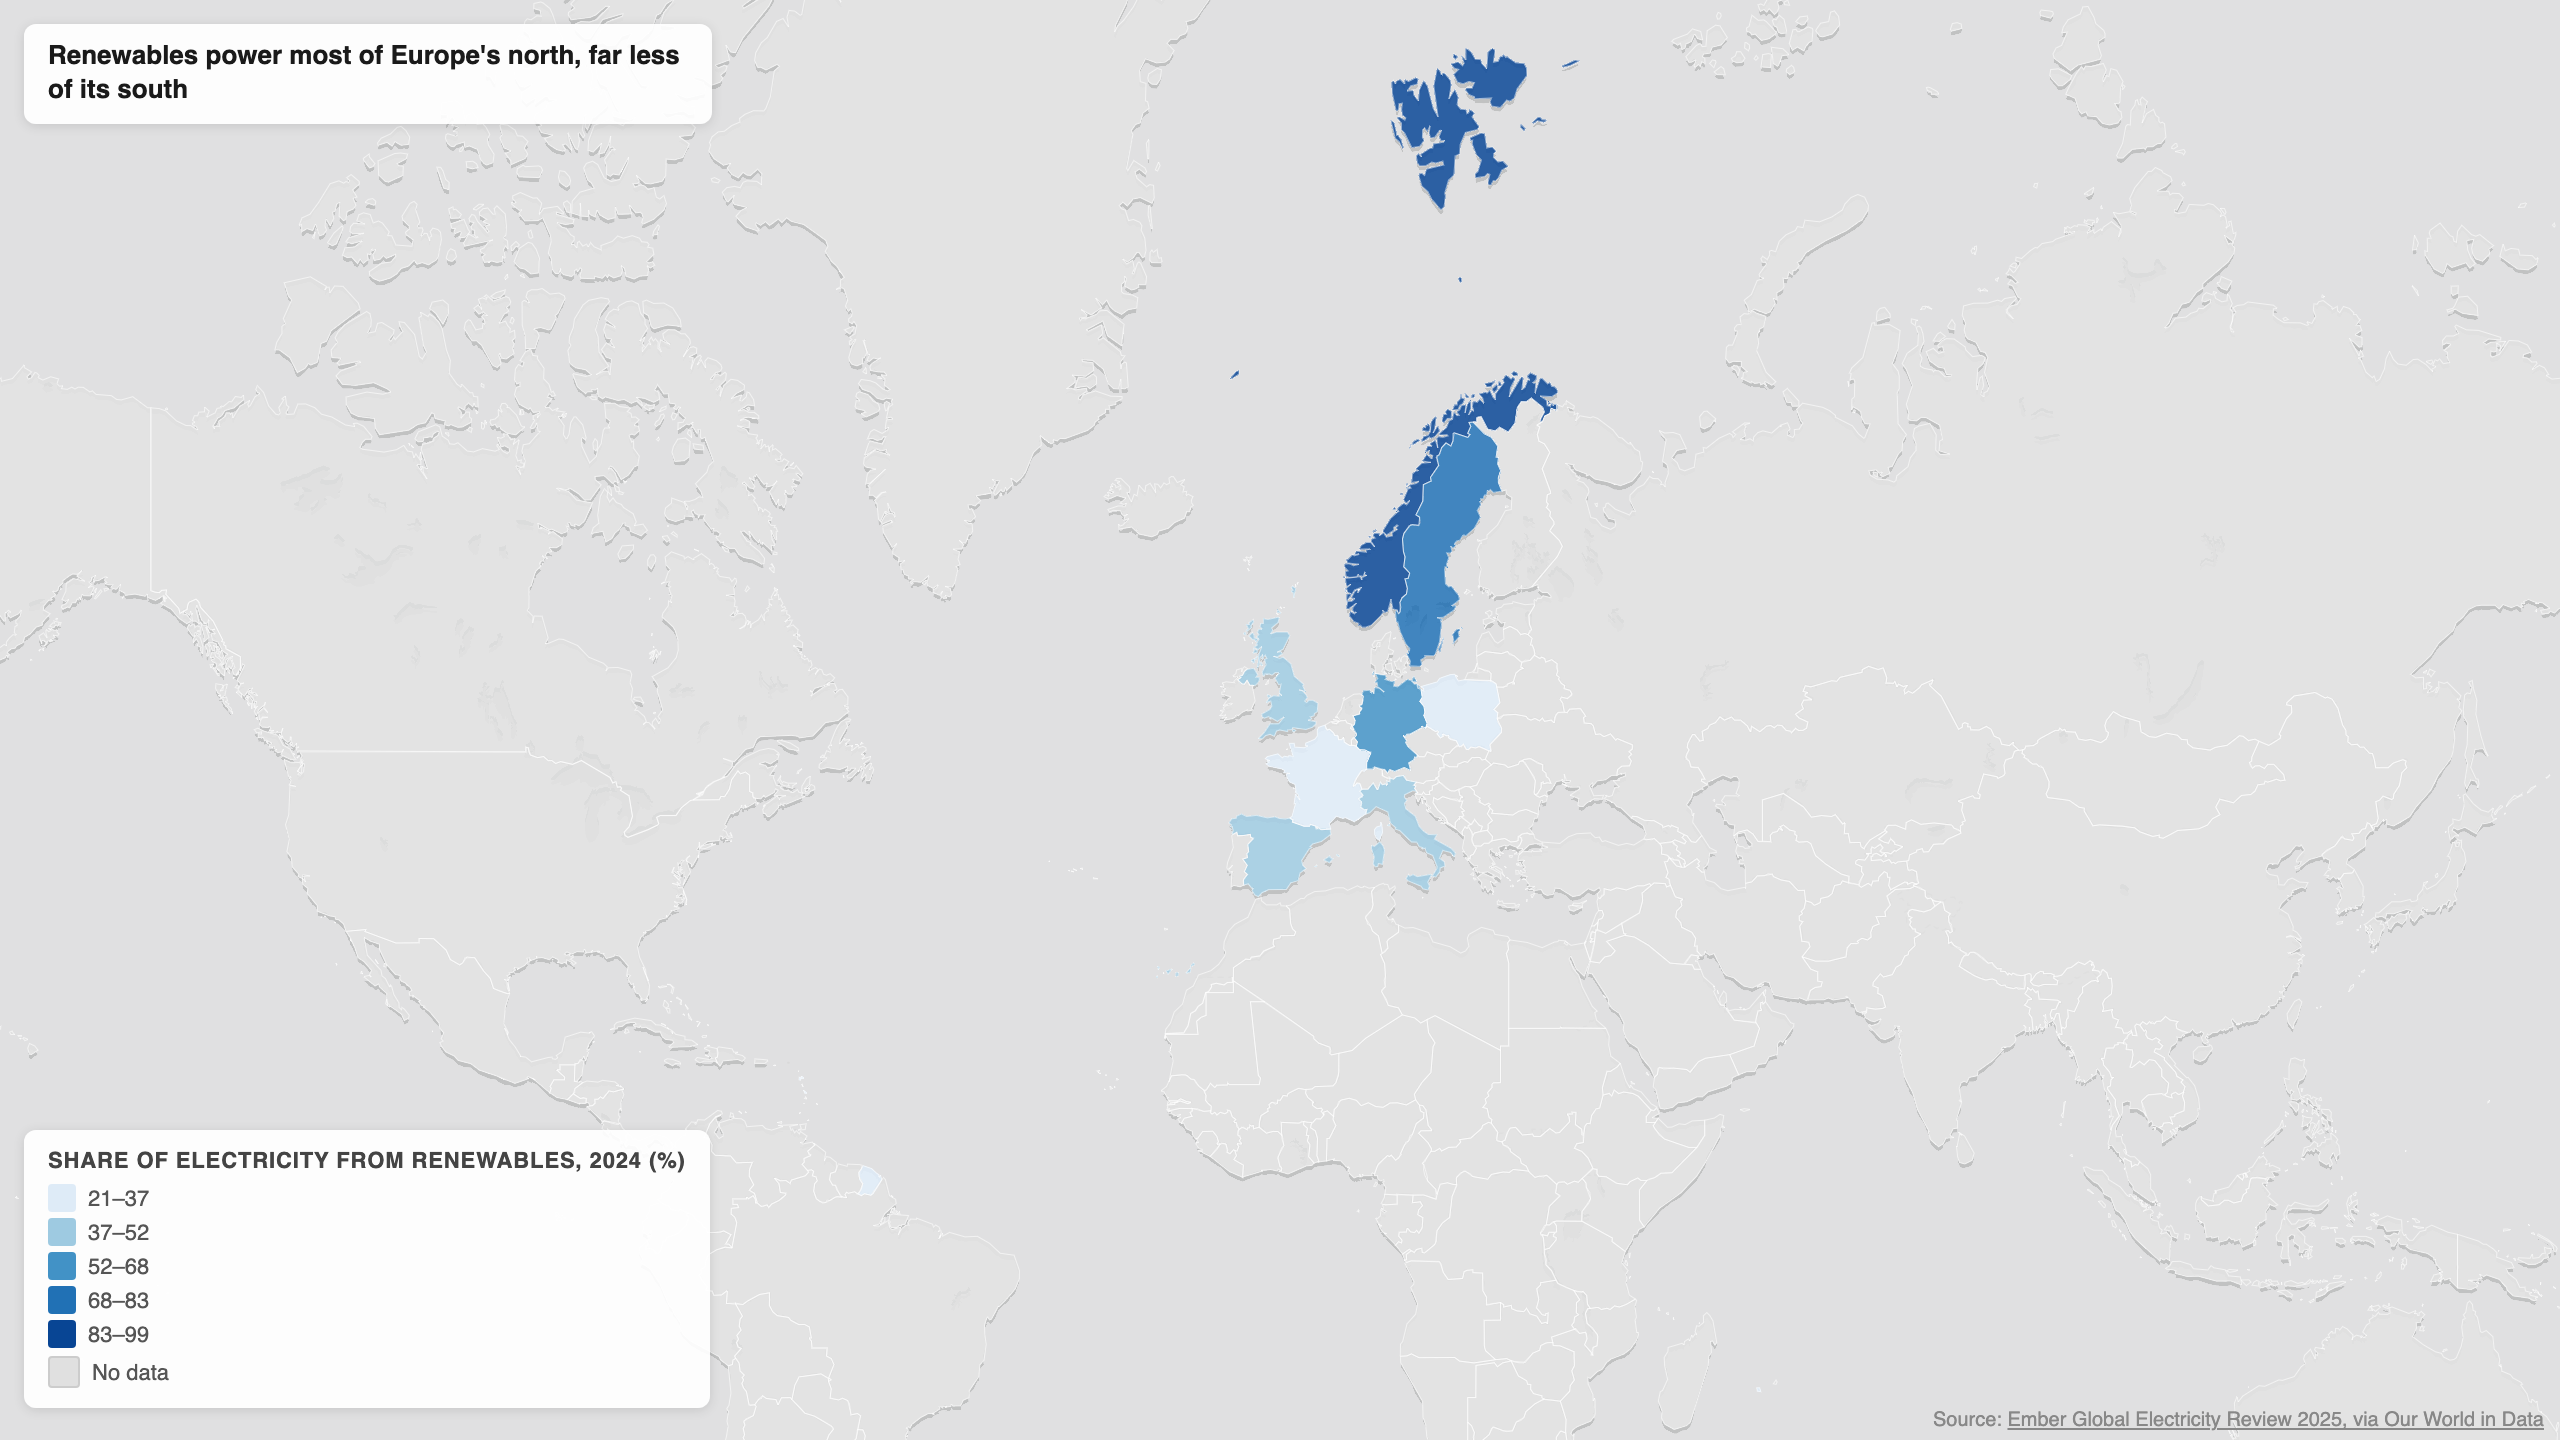
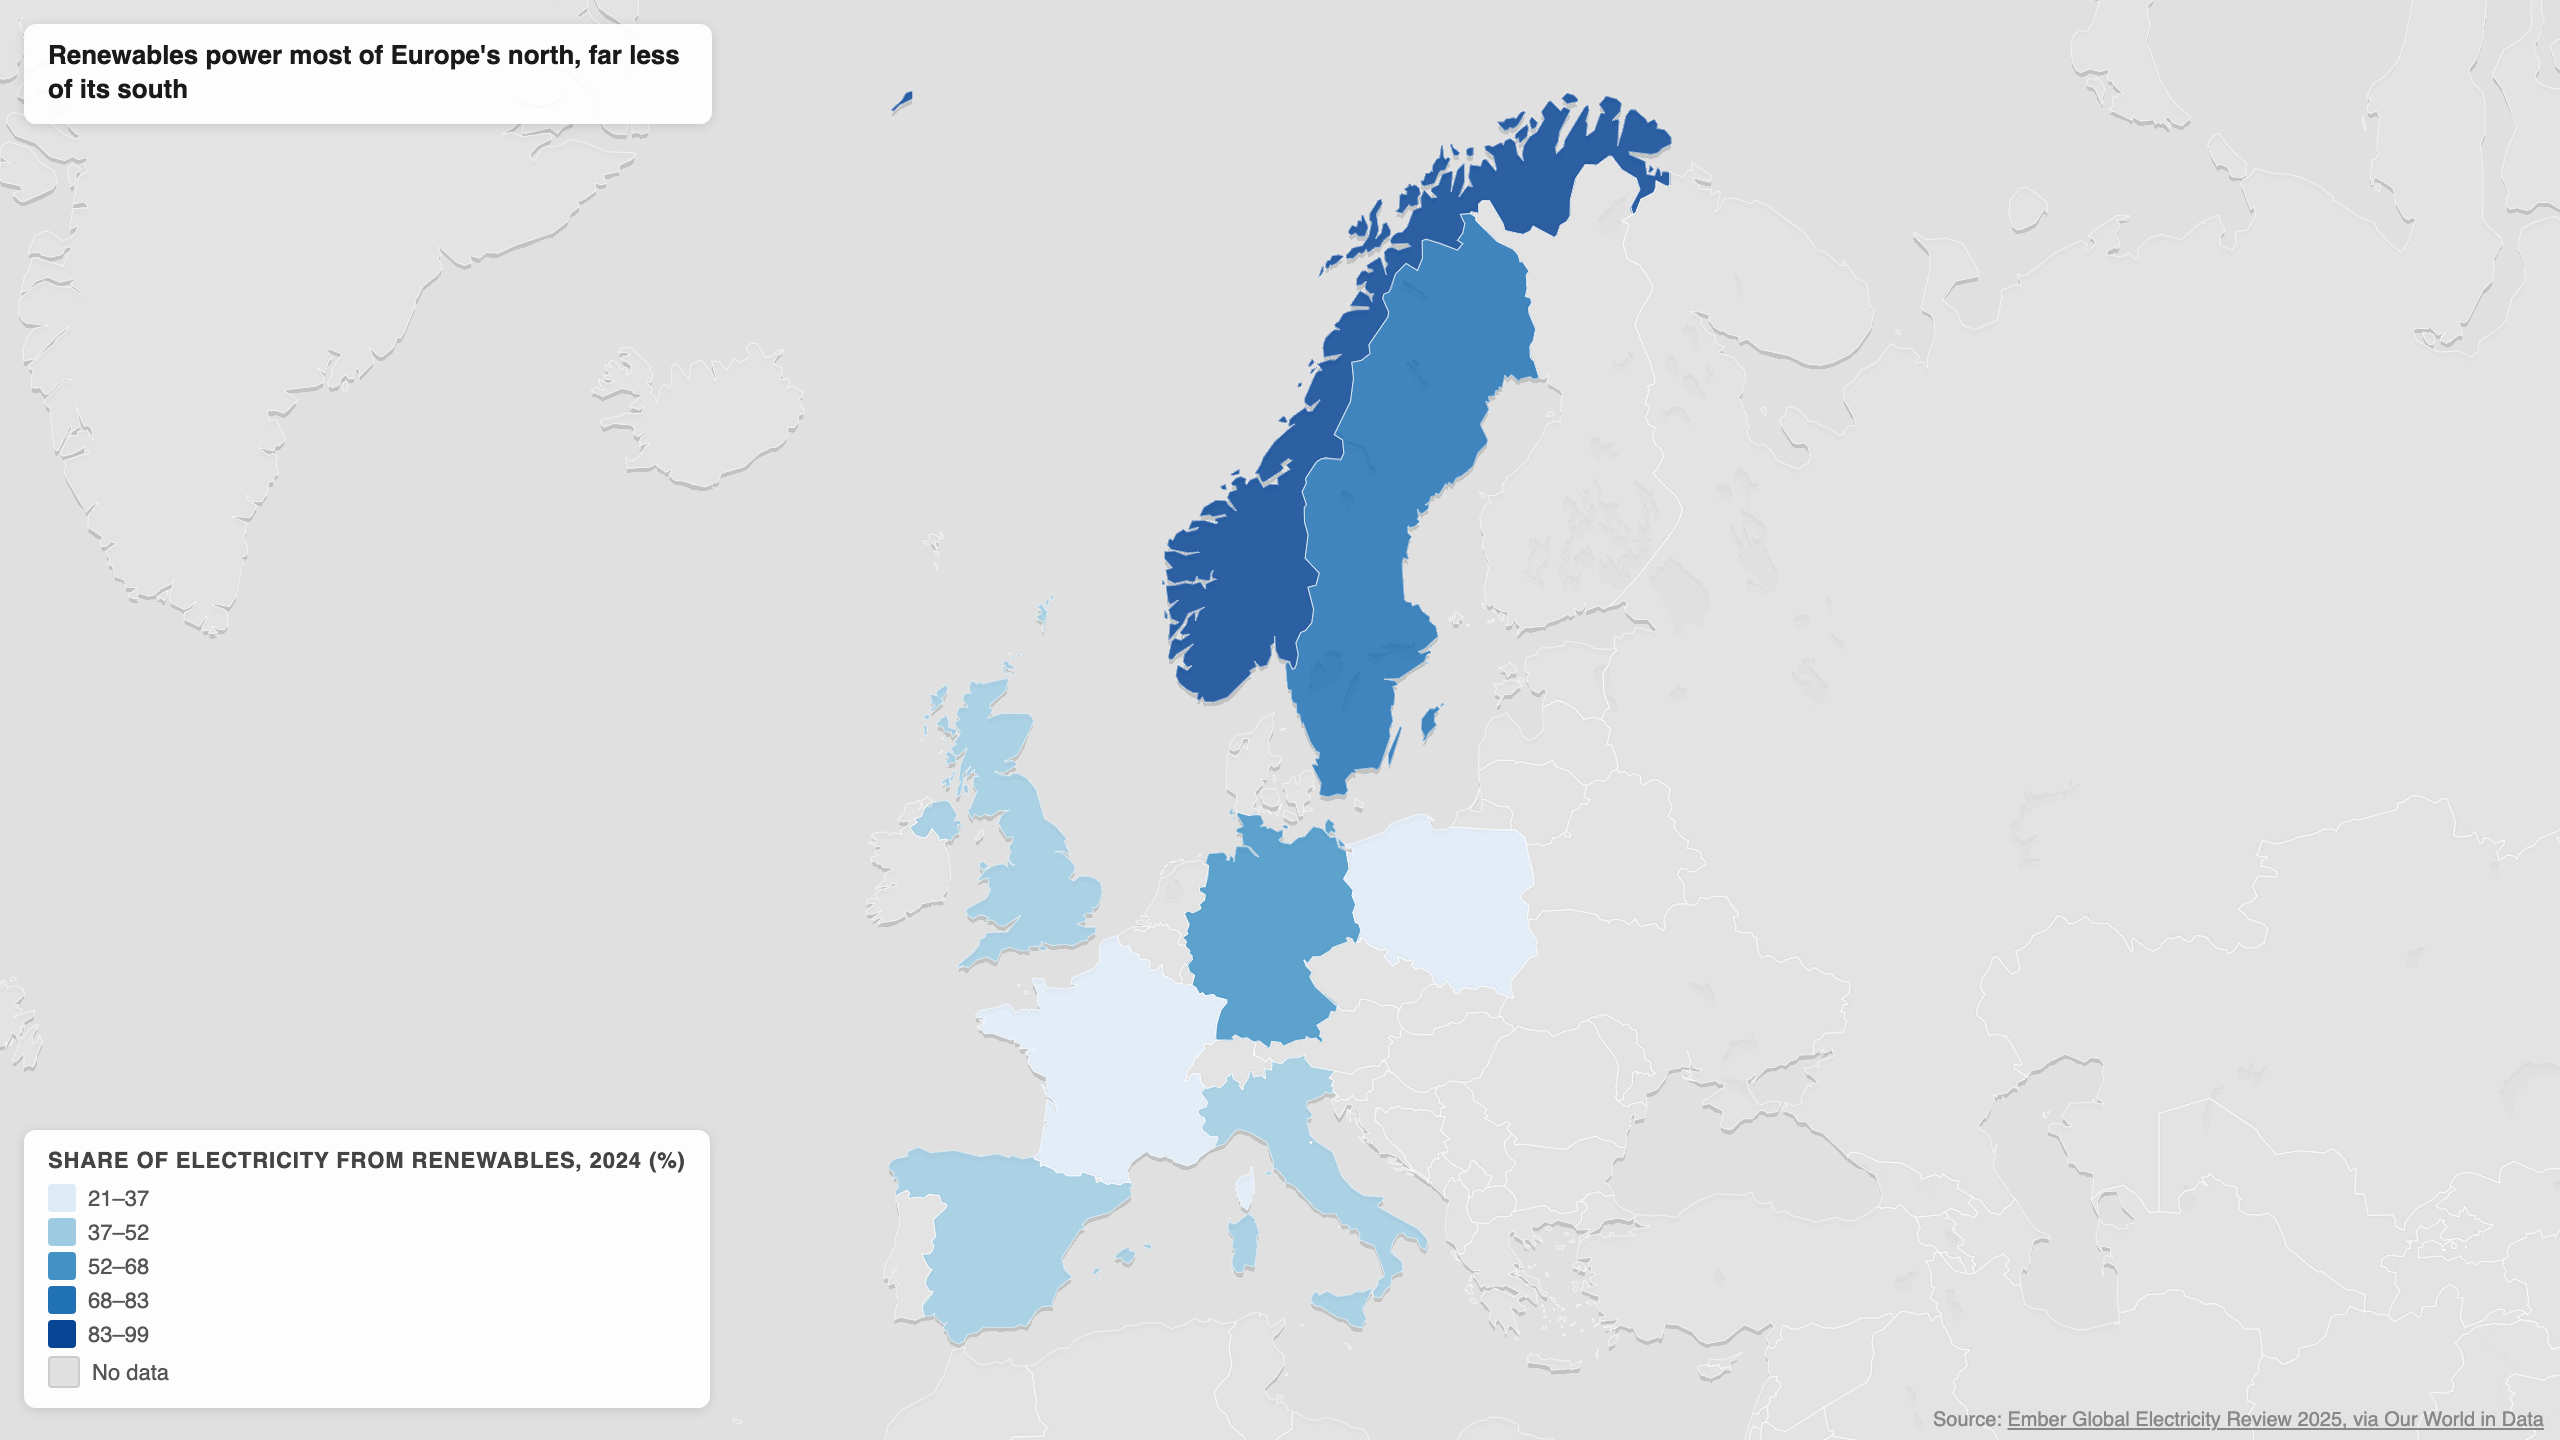
feat(map-native): tight data-zone framing — padding, fitted-view maxBounds, audit ≥70%
- fitBounds padding 24→48 so edge regions (the story's south) are not clipped
- setMaxBounds (interactive only) computed from the fitted view, not raw data
  bbox, so the pan guardrail never crops the initial frame; skipped for static
  and video (video will use camera moves that maxBounds would fight)
- raise audit basemap-fit threshold 50%→70% — the mainland frame fills the canvas
- SKILL.md: encode the mainland-framing + maxBounds + breathing-room rule

Claude-Session: https://claude.ai/code/session_01Paz87P3M49t27P9GksL246

diff --git a/skills/map-native/src/ChoroplethMap.tsx b/skills/map-native/src/ChoroplethMap.tsx
@@ -131,10 +131,29 @@ export const ChoroplethMap: React.FC<Props> = ({
         },
       });
 
-      map.fitBounds(layout.bounds as [number, number, number, number], {
-        padding: 24,
+      const dataBounds = layout.bounds as [number, number, number, number];
+      map.fitBounds(dataBounds, {
+        padding: 48,
         duration: 0,
       });
+
+      // Constrain panning to the data zone so an interactive reader stays on the
+      // subject and cannot wander back out to the whole world. Base maxBounds on
+      // the FITTED view (which includes the letterbox), not the raw data bbox —
+      // otherwise the min-zoom maxBounds implies crops the binding dimension.
+      // Interactive only: static has no panning, and the video uses camera moves
+      // that maxBounds would fight.
+      if (interactive) {
+        const fitted = map.getBounds();
+        const sw = fitted.getSouthWest();
+        const ne = fitted.getNorthEast();
+        const mx = (ne.lng - sw.lng) * 0.25 || 1;
+        const my = (ne.lat - sw.lat) * 0.25 || 1;
+        map.setMaxBounds([
+          [sw.lng - mx, sw.lat - my],
+          [ne.lng + mx, ne.lat + my],
+        ] as maptilersdk.LngLatBoundsLike);
+      }
 
       // Expose map instance and data bounds for audit + snap-proof
       (window as unknown as Record<string, unknown>)["__map__"] = map;

diff --git a/skills/map-native/SKILL.md b/skills/map-native/SKILL.md
@@ -62,10 +62,20 @@ and does not reinvent it.
 → single-file HTML with pan/zoom/hover). The MapTiler SDK key is injected as
 `VITE_MAPTILER_KEY` (web) and `REMOTION_MAPTILER_KEY` (Remotion). Both are gitignored.
 
-**Basemap-fit rule** — every map type calls `fitBounds` to the DATA extent (not the world default).
-The pure core computes the bbox of the joined/matched features; the audit verifies it via
-`map.project()` (projecting SW/NE corners to canvas pixels and asserting ≥ 50% fill on the binding
-dimension). This is the known `map-dw` footgun — it is enforced here, not left to the operator.
+**Basemap-fit rule** — every map type calls `fitBounds` to the DATA extent (not the world default),
+and the frame must hug the data **zone**, not stretch to far-flung territory:
+
+- **Mainland framing.** Compute the bbox from each region's **largest-area polygon**, not the raw
+  MultiPolygon. Natural Earth admin-0 features bundle overseas territories (NOR→Svalbard,
+  FRA→French Guiana/Réunion, ESP→Canaries) that silently stretch the bbox to the whole world — the
+  exact "why is it showing the planet" bug. The pure core does this (`mainlandFeature` in
+  `choropleth-geo.ts`); the audit asserts ≥ **70%** fill on the binding dimension via `map.project()`.
+- **maxBounds.** After `fitBounds`, set `map.setMaxBounds(dataBounds + ~35% margin)` so the reader
+  stays on the subject and cannot pan back out to the whole world.
+- **Breathing room.** `fitBounds` padding ≈ 48px so edge regions (the story's south, here Spain/Italy)
+  are not clipped against the frame.
+
+This is the known `map-dw` footgun — enforced here (core + audit), not left to the operator.
 
 ## The recipe — adding a map type (always these steps)
 
